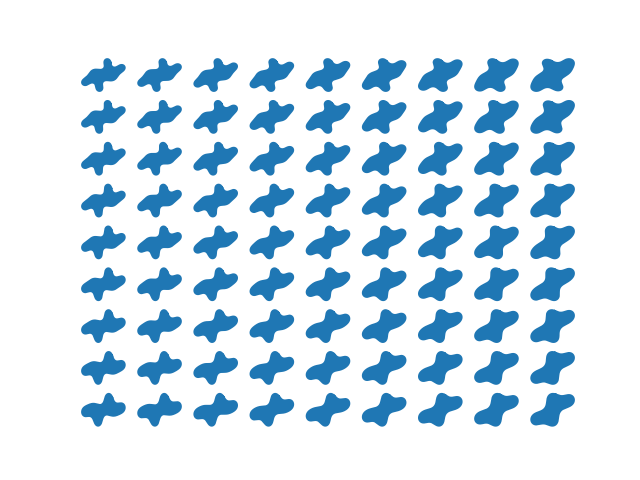
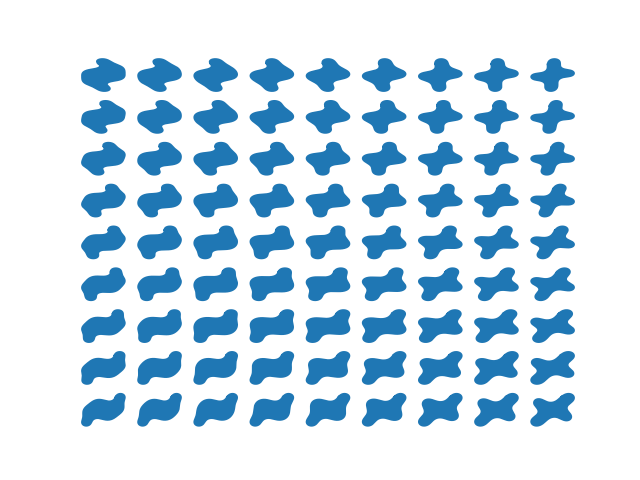
added factor

Changed region(s): [[0.125, 0.125, 0.9062, 0.9062], [0.2188, 0.875, 0.25, 0.9062]]

diff --git a/ShapeSubspace.py b/ShapeSubspace.py
@@ -43,8 +43,15 @@ class ShapeSubspace (FourierShape):
             new.append(cur_vec)
         return new
 
-    def generate_subspace(self,point1=None,point2=None,point3=None):
+    def generate_subspace(self,factor,point1=None,point2=None,point3=None):
         """
+        This function generates a subspace that contain 3 points
+        using gram-schmidt orthomormalization. 
+        :param factor: float representing the size of the eventual orthogonal vector.
+        when increased, the edge shapes will be far from the base shape (point1)
+        :param point1, point 2, point3: lists with the length of 'num_descriptors', representing the
+        amplitude of each fourier descriptor for each of the 3 points. If not stated,
+        it is randomally determined. 
         """
         if not point1:
             point1 = np.random.uniform (-1,1,self.num_descriptors)
@@ -60,6 +67,8 @@ class ShapeSubspace (FourierShape):
         self.vec13 = point3-point1 # direction vector from point 3 to poin 1
         gs_coeffs = np.array(self.gs(np.array([self.vec12,self.vec13])))
         gs1,gs2 = gs_coeffs[0,:],gs_coeffs[1,:]
+        gs1 = factor*gs1/np.linalg.norm(gs1)
+        gs2 = factor*gs2/np.linalg.norm(gs2)
         self.end1 = self.point1+gs1
         self.end2 = self.point1+gs2
     
@@ -125,7 +134,7 @@ class ShapeSubspace (FourierShape):
         pass
 
 
-# sub = ShapeSubspace(4)
-# sub.generate_subspace()
-# sub.plot_shapes_grid(9)
-# sub.save_shapes_grid(9,r"C:\Users\ariel\Desktop\Github shapes generation\images")
+sub = ShapeSubspace(4)
+sub.generate_subspace(1.5)
+sub.plot_shapes_grid(9)
+
